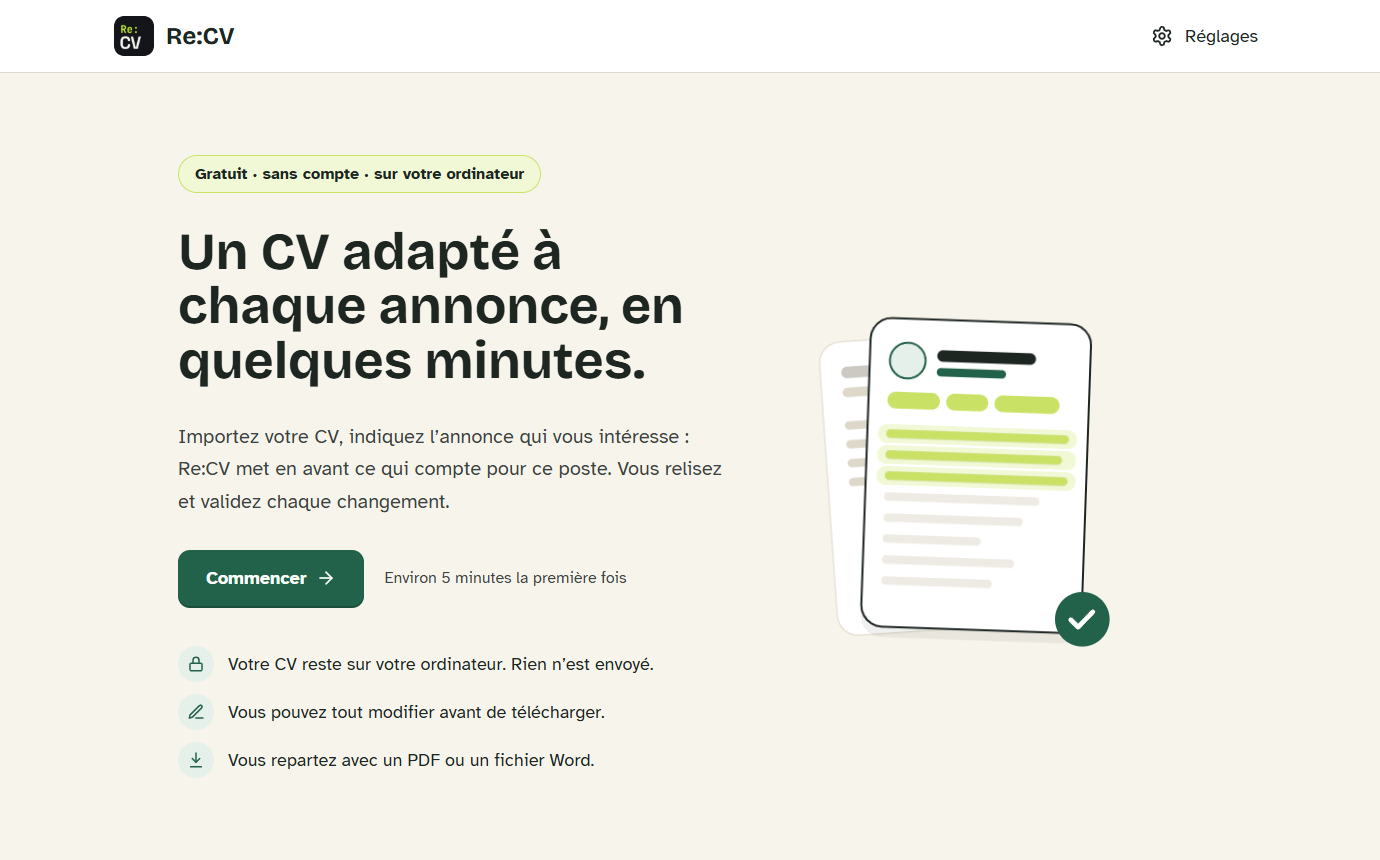
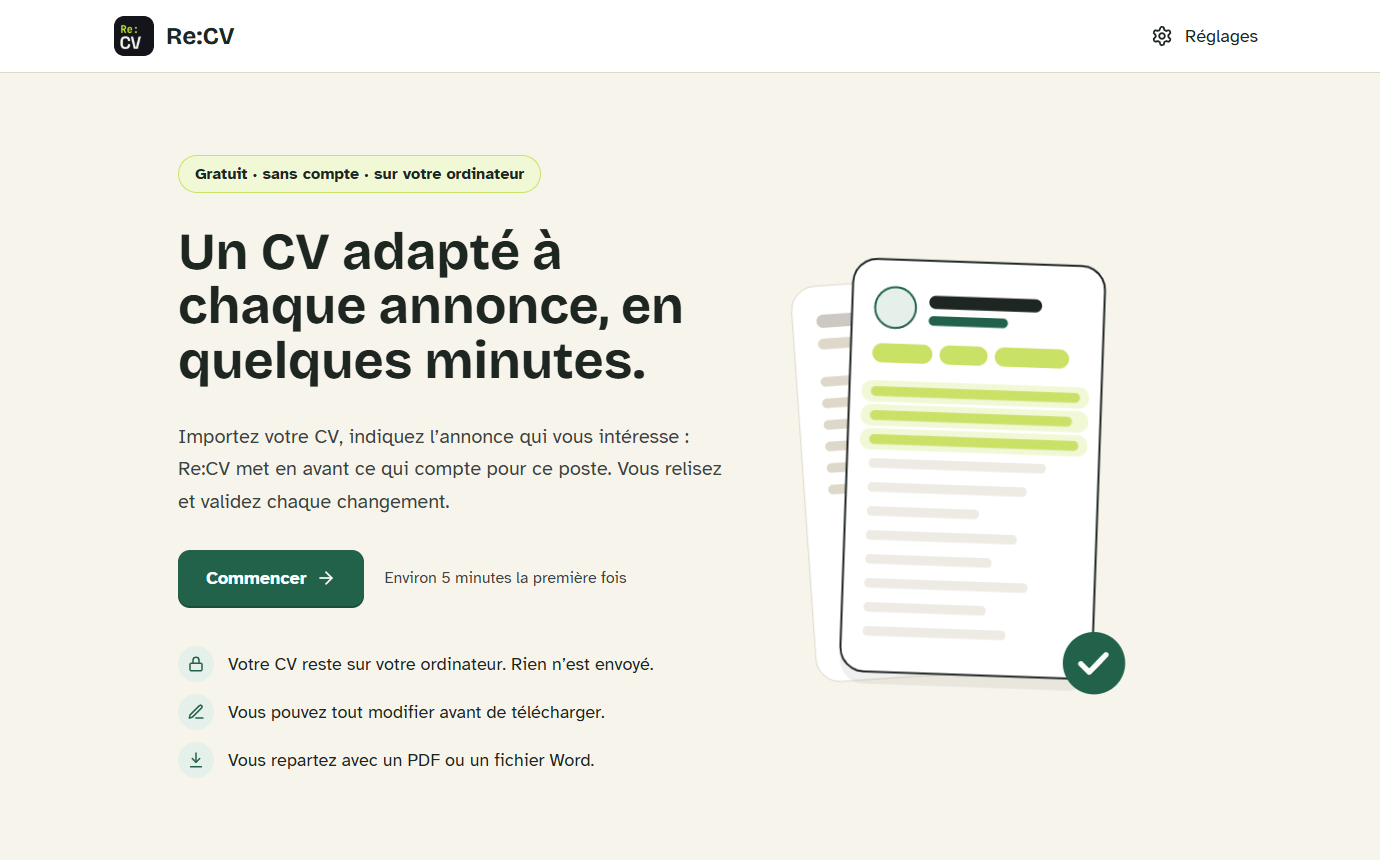
Illustration: play once, taller pages
The animation now plays once and stays on its final picture (no fade-out between
cycles). The pages are taller, with more lines of text, and the frame is cropped
to the drawing, so it is about a third taller on the welcome screen and the
website without changing the columns or the text next to it. The welcome
screenshots show the new drawing.

Changed region(s): [[0.592, 0.3023, 0.8413, 0.8163]]

diff --git a/site/index.html b/site/index.html
@@ -80,16 +80,16 @@
         </div>
 
         <div class="hero-art">
-          <svg xmlns="http://www.w3.org/2000/svg" viewBox="0 0 400 400" class="rv" aria-hidden="true" focusable="false">
+          <svg xmlns="http://www.w3.org/2000/svg" viewBox="26 14 350 434" class="rv" aria-hidden="true" focusable="false">
           <g class="rv-st" transform="translate(-20 1)">
           <g class="rv-bk">
-          <rect class="rv-sf rv-trs" x="64" y="74" width="200" height="280" rx="20"/>
+          <rect class="rv-sf rv-trs" x="64" y="74" width="200" height="330" rx="20"/>
           <rect class="rv-tf" opacity=".45" x="84" y="98" width="110" height="11" rx="5.5"/>
-          <g class="rv-tr"><rect x="84" y="118" width="74" height="9" rx="4.5"/><rect x="84" y="150" width="96" height="8" rx="4"/><rect x="84" y="168" width="80" height="8" rx="4"/><rect x="84" y="186" width="96" height="8" rx="4"/><rect x="84" y="204" width="80" height="8" rx="4"/></g>
+          <g class="rv-tr"><rect x="84" y="118" width="74" height="9" rx="4.5"/><rect x="84" y="150" width="96" height="8" rx="4"/><rect x="84" y="168" width="80" height="8" rx="4"/><rect x="84" y="186" width="96" height="8" rx="4"/><rect x="84" y="204" width="80" height="8" rx="4"/><rect x="84" y="222" width="96" height="8" rx="4"/><rect x="84" y="240" width="80" height="8" rx="4"/></g>
           </g>
           <g class="rv-fr">
-          <rect class="rv-ik" opacity=".07" x="100" y="70" width="210" height="294" rx="20"/>
-          <rect class="rv-sf rv-iks" x="100" y="60" width="210" height="294" rx="20"/>
+          <rect class="rv-ik" opacity=".07" x="100" y="70" width="210" height="344" rx="20"/>
+          <rect class="rv-sf rv-iks" x="100" y="60" width="210" height="344" rx="20"/>
           <circle class="rv-mp rv-mqs" cx="136" cy="100" r="17"/>
           <rect class="rv-ik" x="164" y="89" width="94" height="11" rx="5.5"/>
           <rect class="rv-mq" x="164" y="106" width="66" height="8" rx="4"/>
@@ -99,7 +99,7 @@
           <g class="rv-mv rv-x rv-y1"><rect x="118" y="186" width="156" height="8" rx="4"/></g>
           <g class="rv-mv rv-x rv-y2"><rect x="118" y="226" width="110" height="8" rx="4"/></g>
           <g class="rv-mv rv-x rv-y3"><rect x="118" y="266" width="148" height="8" rx="4"/></g>
-          <g class="rv-mv rv-x"><rect x="118" y="306" width="124" height="8" rx="4"/></g>
+          <g class="rv-mv rv-x"><rect x="118" y="306" width="124" height="8" rx="4"/></g><g class="rv-mv rv-x"><rect x="118" y="326" width="160" height="8" rx="4"/></g><g class="rv-mv rv-x"><rect x="118" y="346" width="120" height="8" rx="4"/></g><g class="rv-mv rv-x"><rect x="118" y="366" width="140" height="8" rx="4"/></g>
           <g class="rv-mv rv-u1"><rect class="rv-hl rv-ap" x="110" y="201" width="190" height="18" rx="9"/><rect x="118" y="206" width="174" height="8" rx="4"/><rect class="rv-hl rv-ac" x="118" y="206" width="174" height="8" rx="4"/></g>
           <g class="rv-mv rv-u2 rv-d1"><rect class="rv-hl rv-ap rv-d1" x="110" y="241" width="190" height="18" rx="9"/><rect x="118" y="246" width="168" height="8" rx="4"/><rect class="rv-hl rv-ac rv-d1" x="118" y="246" width="168" height="8" rx="4"/></g>
           <g class="rv-mv rv-u3 rv-d2"><rect class="rv-hl rv-ap rv-d2" x="110" y="281" width="190" height="18" rx="9"/><rect x="118" y="286" width="174" height="8" rx="4"/><rect class="rv-hl rv-ac rv-d2" x="118" y="286" width="174" height="8" rx="4"/></g>
@@ -117,9 +117,9 @@
           <g class="rv-ac"><rect x="278" y="104" width="34" height="12" rx="6"/><rect x="318" y="104" width="28" height="12" rx="6"/><rect x="352" y="104" width="18" height="12" rx="6"/></g>
           </g>
           <g class="rv-ok">
-          <circle class="rv-mq" cx="306" cy="344" r="26"/>
-          <path class="rv-tk" pathLength="1" d="M295 344.5l7 7 14-14.5"/>
-          <circle class="rv-rg rv-mqs" fill="none" cx="306" cy="344" r="26"/>
+          <circle class="rv-mq" cx="306" cy="394" r="26"/>
+          <path class="rv-tk" pathLength="1" d="M295 394.5l7 7 14-14.5"/>
+          <circle class="rv-rg rv-mqs" fill="none" cx="306" cy="394" r="26"/>
           </g>
           </g>
           </svg>

diff --git a/src/renderer/src/ui/HeroIllustration.tsx b/src/renderer/src/ui/HeroIllustration.tsx
@@ -2,16 +2,16 @@ import './heroIllustration.css'
 
 /**
  * Animated illustration of the welcome screen: a CV, a job posting arriving, the matching lines lighting up and moving
- * up, then the validation badge. Decorative, made of classes only (no inline style), 2 cycles then it stops on its
+ * up, then the validation badge. Decorative, made of classes only (no inline style), it plays once and stays on its
  * final state; with « reduce motion », the final state is shown at once. The same drawing is on the website
  * (site/index.html): keep both identical.
  */
 export function HeroIllustration() {
   return (
-    <svg xmlns="http://www.w3.org/2000/svg" viewBox="0 0 400 400" className="rv" aria-hidden="true" focusable="false">
+    <svg xmlns="http://www.w3.org/2000/svg" viewBox="26 14 350 434" className="rv" aria-hidden="true" focusable="false">
       <g className="rv-st" transform="translate(-20 1)">
         <g className="rv-bk">
-          <rect className="rv-sf rv-trs" x="64" y="74" width="200" height="280" rx="20" />
+          <rect className="rv-sf rv-trs" x="64" y="74" width="200" height="330" rx="20" />
           <rect className="rv-tf" opacity=".45" x="84" y="98" width="110" height="11" rx="5.5" />
           <g className="rv-tr">
             <rect x="84" y="118" width="74" height="9" rx="4.5" />
@@ -19,11 +19,13 @@ export function HeroIllustration() {
             <rect x="84" y="168" width="80" height="8" rx="4" />
             <rect x="84" y="186" width="96" height="8" rx="4" />
             <rect x="84" y="204" width="80" height="8" rx="4" />
+            <rect x="84" y="222" width="96" height="8" rx="4" />
+            <rect x="84" y="240" width="80" height="8" rx="4" />
           </g>
         </g>
         <g className="rv-fr">
-          <rect className="rv-ik" opacity=".07" x="100" y="70" width="210" height="294" rx="20" />
-          <rect className="rv-sf rv-iks" x="100" y="60" width="210" height="294" rx="20" />
+          <rect className="rv-ik" opacity=".07" x="100" y="70" width="210" height="344" rx="20" />
+          <rect className="rv-sf rv-iks" x="100" y="60" width="210" height="344" rx="20" />
           <circle className="rv-mp rv-mqs" cx="136" cy="100" r="17" />
           <rect className="rv-ik" x="164" y="89" width="94" height="11" rx="5.5" />
           <rect className="rv-mq" x="164" y="106" width="66" height="8" rx="4" />
@@ -47,6 +49,15 @@ export function HeroIllustration() {
             </g>
             <g className="rv-mv rv-x">
               <rect x="118" y="306" width="124" height="8" rx="4" />
+            </g>
+            <g className="rv-mv rv-x">
+              <rect x="118" y="326" width="160" height="8" rx="4" />
+            </g>
+            <g className="rv-mv rv-x">
+              <rect x="118" y="346" width="120" height="8" rx="4" />
+            </g>
+            <g className="rv-mv rv-x">
+              <rect x="118" y="366" width="140" height="8" rx="4" />
             </g>
             <g className="rv-mv rv-u1">
               <rect className="rv-hl rv-ap" x="110" y="201" width="190" height="18" rx="9" />
@@ -84,9 +95,9 @@ export function HeroIllustration() {
           </g>
         </g>
         <g className="rv-ok">
-          <circle className="rv-mq" cx="306" cy="344" r="26" />
-          <path className="rv-tk" pathLength={1} d="M295 344.5l7 7 14-14.5" />
-          <circle className="rv-rg rv-mqs" fill="none" cx="306" cy="344" r="26" />
+          <circle className="rv-mq" cx="306" cy="394" r="26" />
+          <path className="rv-tk" pathLength={1} d="M295 394.5l7 7 14-14.5" />
+          <circle className="rv-rg rv-mqs" fill="none" cx="306" cy="394" r="26" />
         </g>
       </g>
     </svg>

diff --git a/src/renderer/src/ui/heroIllustration.css b/src/renderer/src/ui/heroIllustration.css
@@ -1,8 +1,8 @@
 /* Re:CV — illustration animée de l'écran d'accueil (même dessin que la page d'accueil du site : site/hero-illustration.css,
-   à garder identique hors couleurs). Cycle de 7,5 s joué 2 fois, puis arrêt sur l'état final ; les valeurs de base sont
+   à garder identique hors couleurs). Cycle de 7,5 s joué une seule fois, puis arrêt sur l'état final ; les valeurs de base sont
    l'état final, affiché tel quel avec « réduire les animations ». Couleurs : les variables du thème de l'application. */
 .rv {
-  --n: 2;
+  --n: 1;
   --a: 7.5s cubic-bezier(0.2, 0.7, 0.2, 1) var(--n) both;
   display: block;
   width: 100%;
@@ -58,16 +58,16 @@
 
 /* Éléments animés */
 .rv-st {
-  animation: rv-st 15s both;
+  animation: rv-st 7.5s both;
 }
 .rv-fr {
   transform: rotate(2deg);
-  transform-origin: 205px 207px;
+  transform-origin: 205px 232px;
   animation: rv-fr 7.5s ease-in-out var(--n) both;
 }
 .rv-bk {
   transform: rotate(-4deg);
-  transform-origin: 164px 214px;
+  transform-origin: 164px 239px;
   animation: rv-bk 7.5s ease-in-out var(--n) both;
 }
 .rv-jb {
@@ -181,14 +181,6 @@
     opacity: 0;
   }
   5%,
-  47% {
-    opacity: 1;
-  }
-  50%,
-  52% {
-    opacity: 0;
-  }
-  55%,
   to {
     opacity: 1;
   }

diff --git a/site/hero-illustration.css b/site/hero-illustration.css
@@ -1,8 +1,8 @@
-/* Re:CV — illustration animée. Cycle de 7,5 s joué 2 fois, puis arrêt sur l'état final.
+/* Re:CV — illustration animée. Cycle de 7,5 s joué une seule fois, puis arrêt sur l'état final.
    Les valeurs de base sont l'état final (CV adapté + coche) : c'est ce qui s'affiche sans animation.
    Classes préfixées `rv-`, aucun style en ligne (la page interdit `style-src 'unsafe-inline'`). */
 .rv {
-  --n: 2;
+  --n: 1;
   --a: 7.5s cubic-bezier(0.2, 0.7, 0.2, 1) var(--n) both;
   display: block;
   width: 100%;
@@ -58,16 +58,16 @@
 
 /* Éléments animés */
 .rv-st {
-  animation: rv-st 15s both;
+  animation: rv-st 7.5s both;
 }
 .rv-fr {
   transform: rotate(2deg);
-  transform-origin: 205px 207px;
+  transform-origin: 205px 232px;
   animation: rv-fr 7.5s ease-in-out var(--n) both;
 }
 .rv-bk {
   transform: rotate(-4deg);
-  transform-origin: 164px 214px;
+  transform-origin: 164px 239px;
   animation: rv-bk 7.5s ease-in-out var(--n) both;
 }
 .rv-jb {
@@ -181,14 +181,6 @@
     opacity: 0;
   }
   5%,
-  47% {
-    opacity: 1;
-  }
-  50%,
-  52% {
-    opacity: 0;
-  }
-  55%,
   to {
     opacity: 1;
   }

diff --git a/src/renderer/src/ui/heroIllustrationCss.test.ts b/src/renderer/src/ui/heroIllustrationCss.test.ts
@@ -9,8 +9,8 @@ describe('heroIllustration.css', () => {
     expect(css).toMatch(/@media \(prefers-reduced-motion: reduce\)\s*\{\s*\.rv \*\s*\{[^}]*animation: none !important/)
   })
 
-  it('plays two cycles, then stops on the final state', () => {
-    expect(css).toMatch(/--n: 2;/)
+  it('plays once, then stays on the final state', () => {
+    expect(css).toMatch(/--n: 1;/)
     expect(css).toMatch(/--a: [^;]*var\(--n\) both;/)
   })
 

diff --git a/site/style.css b/site/style.css
@@ -284,7 +284,7 @@ p {
 /* Illustration animée (voir hero-illustration.css) : suit la largeur de sa colonne, sans jamais déborder. */
 .hero-art {
   justify-self: center;
-  width: min(440px, 100%);
+  width: min(460px, 100%);
   margin: 1rem auto 1.5rem;
 }
 

diff --git a/CHANGELOG.md b/CHANGELOG.md
@@ -7,8 +7,8 @@ follow [Semantic Versioning](https://semver.org/).
 
 ### Changed
 - New animated illustration on the welcome screen and on the website: your CV, a job posting arriving, the matching
-  lines lighting up and moving to the top, then the validation badge. It plays twice, then stops; with "reduce
-  motion", the final picture is shown without any movement.
+  lines lighting up and moving to the top, then the validation badge. It plays once and stays on the final
+  picture; with "reduce motion", that picture is shown without any movement.
 
 ### Fixed
 - Website: the illustration was drawn wrong (missing pills, same-width lines) and the sections did not appear one after
